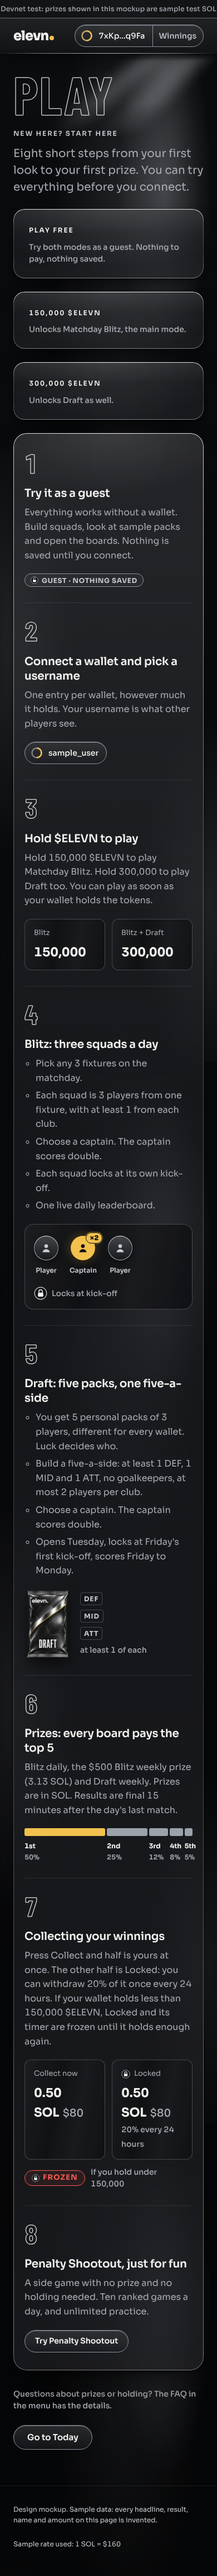
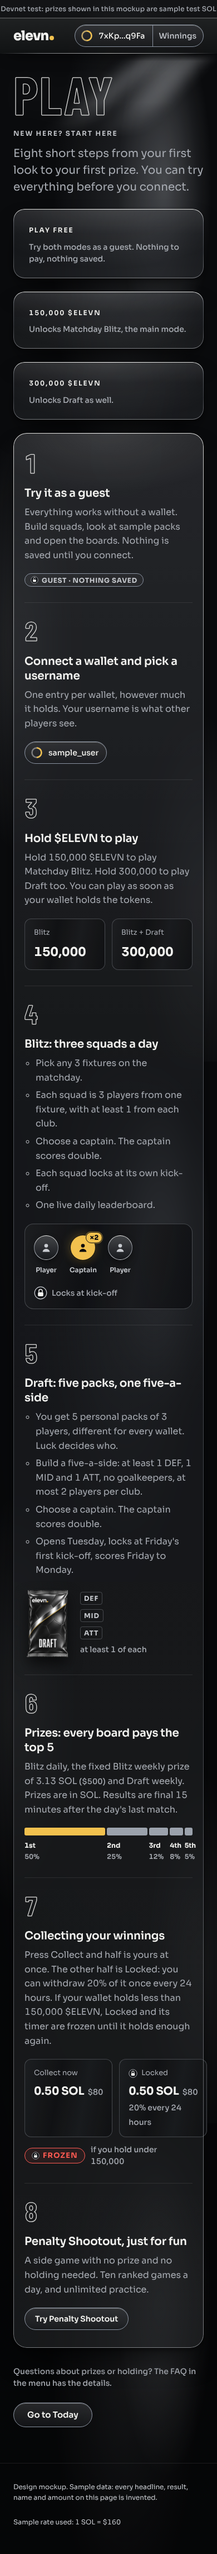
Add News and How to play mockups
Claude-Session: https://claude.ai/code/session_012GbKymxq8Mwy7J7Kp4CrmR

diff --git a/docs/design/mockups/how-to-play.html b/docs/design/mockups/how-to-play.html
@@ -45,7 +45,7 @@
 <div class="hw-v"><div class="hw-pk"><img src="art/pack.png" alt="A Draft pack" width="84" height="126"><div class="hw-pos" aria-label="Positions needed"><span class="pos">DEF</span><span class="pos">MID</span><span class="pos">ATT</span><span class="small muted">at least 1 of each</span></div></div></div></li>
 
 <li class="hw-step" id="s6"><span class="hw-n" aria-hidden="true">6</span>
-<div class="hw-t"><h2 class="h3">Prizes: every board pays the top 5</h2><p class="muted">Blitz daily, the $500 Blitz weekly prize (3.13 SOL) and Draft weekly. Prizes are in SOL. Results are final 15 minutes after the day's last match.</p></div>
+<div class="hw-t"><h2 class="h3">Prizes: every board pays the top 5</h2><p class="muted">Blitz daily, the fixed Blitz weekly prize of 3.13 SOL <span class="usd" style="margin-left:0">($500)</span> and Draft weekly. Prizes are in SOL. Results are final 15 minutes after the day's last match.</p></div>
 <div class="hw-v"><div class="hw-split" role="img" aria-label="Prize split: 1st 50 percent, 2nd 25, 3rd 12, 4th 8, 5th 5">
 <div class="bar"><i style="flex:50"></i><i style="flex:25"></i><i style="flex:12"></i><i style="flex:8"></i><i style="flex:5"></i></div>
 <div class="lab"><span style="flex:50"><b>1st</b> 50%</span><span style="flex:25"><b>2nd</b> 25%</span><span style="flex:12"><b>3rd</b> 12%</span><span style="flex:8"><b>4th</b> 8%</span><span style="flex:5"><b>5th</b> 5%</span></div></div></div></li>

diff --git a/docs/design/mockups/info-how.css b/docs/design/mockups/info-how.css
@@ -53,3 +53,4 @@
   .hw-end { margin-bottom: 64px; }
   .hw-pk { gap: 16px; }
 }
+.hw-col b { white-space: nowrap; font-size: 20px; } .hw-col .usd { font-size: 14px; }

diff --git a/docs/design/LESSONS.md b/docs/design/LESSONS.md
@@ -125,3 +125,9 @@ Reporting
 ## 2026-11-18 · mockup agent · rays and contrast
 - Changed: stronger rays dropped one line of text to 3.9:1; shafts were moved and shortened.
 - Rule for next time: measure contrast on the rendered pixels after any backdrop change.
+
+## 2026-11-18 · info-news agent · News and How to play mockups
+- Did: news.html (lead item, three visibly different item kinds, league filter chips) and how-to-play.html (8 numbered steps with small visuals), each with its own css.
+- How: reused mock.css pieces (top bar, glass, .word, .tok, .cap, .lock, .pos) and put the rest in info-news.css / info-how.css; the three news kinds differ by shape (plain card, filled data card, thin outlined headline row) and by a text label plus glyph, never colour alone.
+- Changed: SOL amounts wrapped onto two lines in the narrow Collect/Locked boxes; fixed with nowrap. Weekly prize now leads with SOL, dollars grey.
+- Rule for next time: any amount in a small box needs white-space: nowrap; check the 390 shot for wraps in figure boxes.
